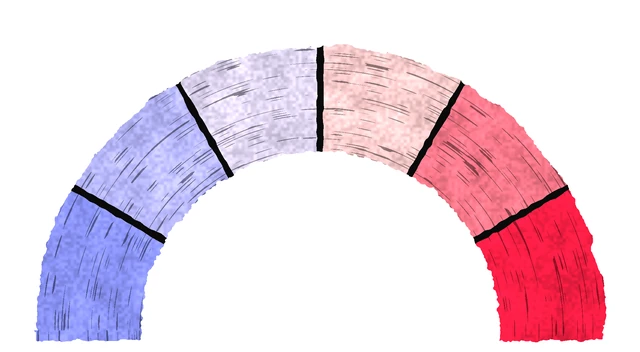
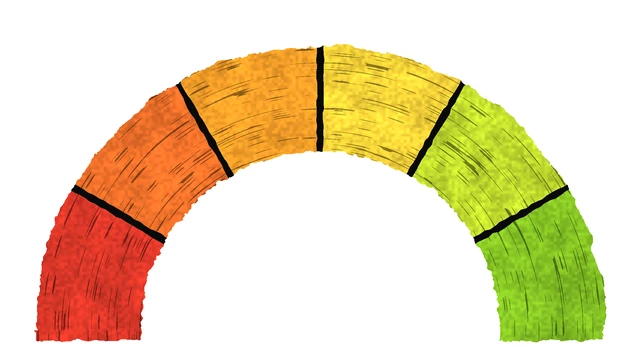
Forsaken tier list: reference colours, no numbers, lighter effects

diff --git a/forsaken/fk-tier.css b/forsaken/fk-tier.css
@@ -1,11 +1,11 @@
-.fkt{--mo:url("/forsaken/img/ui-corners.svg");--t0:#6b6b6b;--t1:#a6a6a6;--t2:#e8e8e8;--t3:#ffc500;--t4:#ff1f45}
+.fkt{--mo:url("/forsaken/img/ui-corners.svg");--t0:#e0392a;--t1:#f2722b;--t2:#f9d63a;--t3:#c3dd2f;--t4:#86c425}
 .fkt .fk-shell{padding:18px 18px 22px}
 .fkt-top{display:grid;grid-template-columns:minmax(0,1fr) minmax(0,1fr);gap:18px;align-items:stretch;margin:0 0 18px}
 .fkt-key{display:flex;align-items:center;gap:16px;padding:12px 18px}
 .fkt-key p{margin:0;font-size:17px;line-height:1.4;color:#e6e6e6}
 .fkt-key b{font-family:"Rubik Dirt",var(--fk-title);font-weight:400;font-size:22px;letter-spacing:1px}
-.fkt-key .fkt-s{color:#c8c8ff}
-.fkt-key .fkt-k{color:#ffc8c8}
+.fkt-key .fkt-s{color:#ff5a45}
+.fkt-key .fkt-k{color:#9ad92e}
 .fkt-key-g{flex:0 0 112px}
 .fkt-key-g .fkt-gauge{--a:225deg}
 .fkt-legend{position:relative;flex:0 0 min(46%,300px);aspect-ratio:440/60}
@@ -19,20 +19,19 @@
 .fkt-maps{display:grid;gap:18px}
 .fkt-row{display:grid;grid-template-columns:300px minmax(0,1fr);gap:18px;align-items:stretch}
 .fkt-map{position:relative;overflow:hidden;display:flex;flex-direction:column;align-items:center;justify-content:center;gap:16px;padding:16px 16px 14px;min-height:280px}
-.fkt-map-bg{position:absolute;inset:0;z-index:-1;width:100%!important;height:100%!important;max-width:none!important;margin:0!important;object-fit:cover;filter:blur(2px) brightness(.55) saturate(.9);transform:scale(1.04)}
+.fkt-map-bg{position:absolute;inset:0;z-index:-1;width:100%!important;height:100%!important;max-width:none!important;margin:0!important;object-fit:cover;opacity:.5}
 .fkt-map::after{content:"";position:absolute;inset:0;z-index:-1;background:linear-gradient(180deg,rgba(0,0,0,.55),rgba(0,0,0,.15) 40%,rgba(0,0,0,.6));pointer-events:none}
 .fkt-map{isolation:isolate}
 .fkt-map-n{margin:0;font-family:var(--fk-serif);font-weight:400;font-size:26px;line-height:1.15;letter-spacing:2px;text-transform:uppercase;text-align:center;color:#fff;text-shadow:0 2px 0 #000,0 0 12px rgba(0,0,0,.9)}
-.fkt-gauge{position:relative;width:100%;max-width:250px;aspect-ratio:640/352;background:url("/forsaken/img/ui-gauge.webp") center/100% 100% no-repeat;container-type:inline-size;filter:drop-shadow(0 3px 6px rgba(0,0,0,.7))}
+.fkt-gauge{position:relative;width:100%;max-width:250px;aspect-ratio:640/352;background:url("/forsaken/img/ui-gauge.webp") center/100% 100% no-repeat;container-type:inline-size}
 .fkt-gs,.fkt-gk{position:absolute;top:61%;width:2ch;margin-left:-1ch;text-align:center;font-family:"Rubik Dirt",var(--fk-title);font-weight:400;font-size:17cqw;line-height:1;color:#050505;pointer-events:none}
 .fkt-gs{left:13.75%}
 .fkt-gk{left:86.25%}
-.fkt-needle{position:absolute;left:calc(50% - 45% * 38 / 420);top:93.75%;width:45%;aspect-ratio:420/76;margin-top:calc(-45% * 38 / 420);background:url("/forsaken/img/ui-needle.webp") center/100% 100% no-repeat;transform-origin:9.05% 50%;transform:rotate(var(--a,270deg));filter:drop-shadow(0 2px 2px rgba(0,0,0,.8))}
+.fkt-needle{position:absolute;left:calc(50% - 45% * 38 / 420);top:93.75%;width:45%;aspect-ratio:420/76;margin-top:calc(-45% * 38 / 420);background:url("/forsaken/img/ui-needle.webp") center/100% 100% no-repeat;transform-origin:9.05% 50%;transform:rotate(var(--a,270deg))}
 .fkt-row .fkt-needle{transform:rotate(180deg)}
-.fkt-row.fkt-in .fkt-needle{transform:rotate(var(--a,270deg));transition:transform 1.1s cubic-bezier(.3,1.5,.5,1) .15s}
+.fkt-row.fkt-in .fkt-needle{transform:rotate(var(--a,270deg));transition:transform .7s cubic-bezier(.22,1,.36,1)}
 .fkt-unset .fkt-needle{opacity:.35}
 .fkt-lean{margin:0;font-family:var(--fk-serif);font-size:18px;line-height:1.2;color:#fff;text-shadow:0 2px 0 #000,0 0 10px #000}
-.fkt-lean span{margin-left:6px;font-family:"Rubik Dirt",var(--fk-title);color:var(--fk-gold)}
 .fkt-chars{display:flex;align-items:center;justify-content:center;padding:18px 14px 14px;background:var(--fk-glass2)}
 .fkt-list{display:flex;flex-wrap:wrap;justify-content:center;gap:24px 14px;margin:0;padding:0;list-style:none}
 .fkt-ch{position:relative;display:flex;flex-direction:column;align-items:center;gap:8px;width:124px}
@@ -43,10 +42,6 @@
 .fkt-bar-f{background:linear-gradient(90deg,var(--t0) 0 21.08%,var(--t1) 21.08% 40.36%,var(--t2) 40.36% 59.64%,var(--t3) 59.64% 78.92%,var(--t4) 78.92% 100%);-webkit-mask:url("/forsaken/img/ui-bar-fill.webp") center/100% 100% no-repeat;mask:url("/forsaken/img/ui-bar-fill.webp") center/100% 100% no-repeat}
 .fkt-bar-o{background:url("/forsaken/img/ui-bar-frame.webp") center/100% 100% no-repeat}
 .fkt-mk{position:absolute;left:var(--p);top:-22%;bottom:-22%;width:5px;margin-left:-2.5px;background:#fff;border-radius:2px;box-shadow:0 0 0 2px #050505,0 0 6px rgba(255,255,255,.7);transform:rotate(-4deg)}
-.fkt-row .fkt-mk{left:1.8%}
-.fkt-row.fkt-in .fkt-mk{left:var(--p);transition:left .8s cubic-bezier(.2,.8,.2,1) .25s}
-.fkt-rk{position:absolute;top:-6px;right:2px;z-index:7;display:flex;align-items:baseline;gap:1px;padding:1px 6px 2px;background:#050505;box-shadow:0 0 0 1.5px #fff;font-family:"Rubik Dirt",var(--fk-title);font-size:17px;line-height:1;color:#fff;pointer-events:none}
-.fkt-rk small{font-size:12px;color:#c9c9c9}
 .fkt-empty{margin:0;padding:18px;text-align:center;font-style:italic;color:#d8d8d8}
 @media (max-width:860px){
 .fkt-top{grid-template-columns:minmax(0,1fr)}
@@ -66,10 +61,8 @@
 .fkt-ch{width:96px}
 .fkt .fkt-ch .fk-card{width:84px}
 .fkt .fkt-ch .fk-card-n{font-size:13px;bottom:6px;max-width:calc(100% - 8px);-webkit-text-stroke:2.5px #000}
-.fkt-rk{font-size:15px}
 }
 @media (prefers-reduced-motion:reduce){
 .fkt-row .fkt-needle{transform:rotate(var(--a,270deg))}
-.fkt-row .fkt-mk{left:var(--p)}
-.fkt-row.fkt-in .fkt-needle,.fkt-row.fkt-in .fkt-mk{transition:none}
+.fkt-row.fkt-in .fkt-needle{transition:none}
 }

diff --git a/forsaken/fk-tier.js b/forsaken/fk-tier.js
@@ -41,7 +41,7 @@
     var a = s == null ? 270 : 180 + s * 1.8;
     return '<div class="fkt-gauge' + (s == null ? ' fkt-unset' : '') + '" role="img" aria-label="' + esc(leanText(s) + (s == null ? '' : ', ' + s + ' out of 100')) + '" style="--a:' + a + 'deg">' +
       '<b class="fkt-gs" aria-hidden="true">S</b><b class="fkt-gk" aria-hidden="true">K</b><i class="fkt-needle" aria-hidden="true"></i></div>' +
-      '<p class="fkt-lean">' + esc(leanText(s)) + (s == null ? '' : ' <span>' + s + '</span>') + '</p>';
+      '<p class="fkt-lean">' + esc(leanText(s)) + '</p>';
   }
 
   function bar(r) {
@@ -53,7 +53,7 @@
     var label = c.name + ': ' + r.tier + ' tier, ' + r.n + ' out of 10';
     return '<li class="fkt-ch"><a class="fk-card" data-side="' + esc(c.side) + '" href="' + BASE + esc(c.id) + '" title="' + esc(label) + '" aria-label="' + esc(label) + '" data-google-vignette="false">' +
       '<img src="' + esc(c.card || c.image) + '" alt="" width="440" height="550" loading="lazy" decoding="async"><span class="fk-mo" aria-hidden="true"></span><span class="fk-card-n">' + esc(c.name) + '</span></a>' +
-      bar(r) + '<span class="fkt-rk" aria-hidden="true">' + r.tier + '<small>' + r.n + '</small></span></li>';
+      bar(r) + '</li>';
   }
 
   function row(m, i) {

diff --git a/forsaken/tierlist.html b/forsaken/tierlist.html
@@ -27,7 +27,7 @@
     <div id="ug-content" data-layout="wide" data-hdr="title" data-hdr-name="Forsaken Map Tier List">
 <style>@import url("https://fonts.googleapis.com/css2?family=Rubik:wght@600;700;800&family=Rubik+Dirt&family=Source+Serif+4:ital,opsz,wght@0,8..60,400;0,8..60,600;1,8..60,400&display=swap");</style>
 <link rel="stylesheet" href="/forsaken/fk.css?v=20261105u">
-<link rel="stylesheet" href="/forsaken/fk-tier.css?v=1">
+<link rel="stylesheet" href="/forsaken/fk-tier.css?v=2">
 <div class="fk fkt" id="fkt" data-src="https://raw.githubusercontent.com/FNTDUG/characters.json/main/forsaken.json">
 <div class="fk-shell fk-drawn">
 <div class="fkt-top">
@@ -39,7 +39,7 @@
 <div class="fkt-maps"><p class="fkt-empty">Loading the tier list...</p></div>
 </div>
 </div>
-<script src="/forsaken/fk-tier.js?v=1" defer></script>
+<script src="/forsaken/fk-tier.js?v=2" defer></script>
 
           <div class="ad-slot" style="max-width:600px;width:95%;margin:32px auto 8px"><ins class="adsbygoogle" style="display:block" data-ad-client="ca-pub-7017245771068026" data-ad-slot="9010982209" data-ad-format="auto" data-full-width-responsive="true"></ins><script>(adsbygoogle = window.adsbygoogle || []).push({});</script></div>
     </div>
